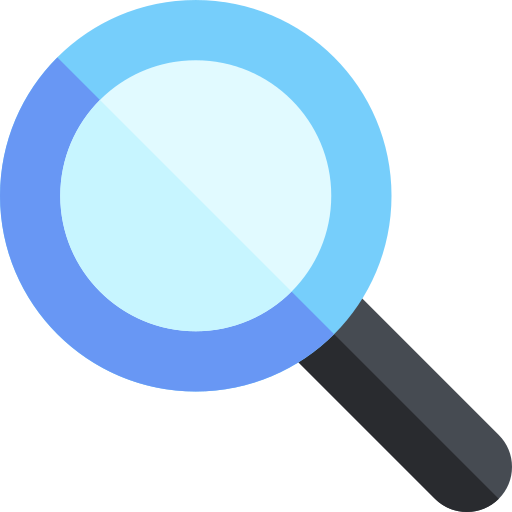
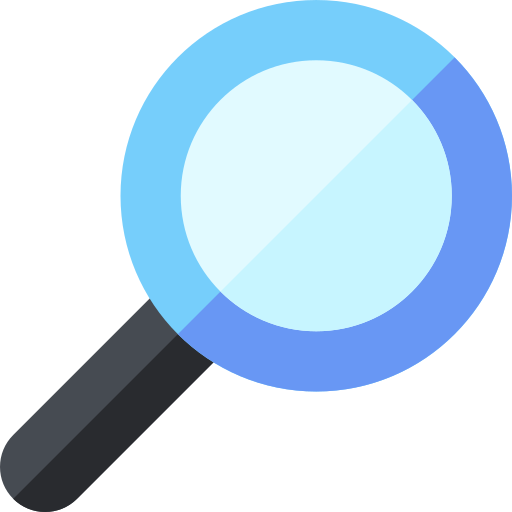
標提列0618

diff --git a/src/app/app.component.css b/src/app/app.component.css
@@ -1,10 +1,103 @@
-.titleimg {
-    width: 84px;
-    height: 32px;
-    margin: auto;
+.bsname {
+    margin: 0;
+    font-family: Microsoft JhengHei;
+    font-weight: bold;
+    font-size: 2.3vmin;
 }
 
-img {
+.titlebar {
+    display: flex;
+    flex-flow: row wrap;
+    align-items: center;
+    justify-content: center;
+    list-style: none;
+    margin: 0;
+    padding-block: 10px;
+    font-family: Microsoft JhengHei;
+    font-weight: bold;
+    font-size: 2.3vmin;
+    /* background-image: linear-gradient(to right, #f1c8c8 0%, #d3e9ee 19%, #6ad6f1 42%, #bda8e4 79%, #7ac5d8 100%); */
+    color: rgb(54, 54, 54);
+}
+
+.hlogo {
+    width: 82px;
+    height: 32px;
+    padding-left: 50px;
+    padding-right: 50px;
+}
+
+.hlogo img {
+    align-items: center;
+}
+
+.hsearchimg img {
+    transform: scaleX(-1);
+    padding-left: 10px;
+}
+
+.huser {
+    margin-left: auto;
+    padding-right: 5px;
+}
+
+.huser a {
+    padding-right: 100px;
+    padding: 13.5px;
+}
+
+
+/* .hcart li a img,
+.hlike>img {
+    padding-left: 15px;
+    padding-right: 15px;
+} */
+
+.titlebar a {
+    text-decoration: none;
+    display: block;
+    padding: 13.5px;
+    margin-right: 1em;
+}
+
+.titlebar li,
+.titlebar li a {
+    height: 50px;
+    display: flex;
+    justify-content: center;
+    align-items: center
+}
+
+.titlebar img {
     max-width: 100%;
     max-height: 100%;
+}
+
+hr {
+    width: 95%;
+}
+
+
+/* ---------------------- 標籤 ---------------------- */
+
+.typebar {
+    display: flex;
+    flex-flow: row wrap;
+    align-items: center;
+    justify-content: space-evenly;
+    list-style: none;
+    margin: 0;
+    padding-block: 10px;
+    font-family: Microsoft JhengHei;
+    font-weight: bold;
+    font-size: 2.3vmin;
+    /* background-image: linear-gradient(to right, #f1c8c8 0%, #d3e9ee 19%, #6ad6f1 42%, #bda8e4 79%, #7ac5d8 100%); */
+    color: rgb(54, 54, 54);
+}
+
+.typebar a {
+    text-decoration: none;
+    display: block;
+    padding: 1em;
+    margin-right: 1em;
 }

diff --git a/src/app/app.component.html b/src/app/app.component.html
@@ -1,16 +1,41 @@
-<div>
+<div class="titlecontainer">
     <ul class="bsname">特洛伊線上書店 </ul>
     <ul class="titlebar">
-        <li class="titleimg"><img src="../../assets/homeicon1.png" alt="特洛伊書店"></li>
-        <li>功能。。。。。。。。</li>
+        <li class="hlogo">
+            <img src="../../assets/homeicon.png" alt="特洛伊書店">
+        </li>
+        <li class="hsearchimg">
+            <img src="../assets/Title/search.png">
+        </li>
+        <li class="hinput">
+            <input>
+        </li>
+        <li class="huser">
+            <a href="#"><img src="../assets/Title/user.png">&ensp;登入/註冊</a>
+        </li>
+        <li class="hcart">
+            <a href="#"><img src="../assets/Title/shopping-cart.png">&ensp;購物車</a>
+        </li>
+        <li class="hlike">
+            <a href="#"><img src="../assets/Title/love.png">&ensp;我的最愛</a>
+        </li>
+        <!-- <li class="hlike">
+            <img src="../assets/Title/love.png">
+        </li>
+        <li>
+            <a href="#">我的最愛</a>
+        </li> -->
     </ul>
 </div>
+<hr size=5>
 <div>
-    <div class="bsname">特洛伊線上書店 </div>
-    <div class="titlebar">
-        <div class="titleimg"><img src="../../assets/homeicon1.png" alt="特洛伊書店"></div>
-        <div>功能。。。。。。。。</div>
-    </div>
+    <ul class="typebar">
+        <li><a href="#">商管書籍</a></li>
+        <li><a href="#">外語學習</a></li>
+        <li><a href="#">理工科學</a></li>
+        <li><a href="#">商品分類</a></li>
+        <li><a href="#">商品分類</a></li>
+    </ul>
 </div>
 
 <router-outlet></router-outlet>
